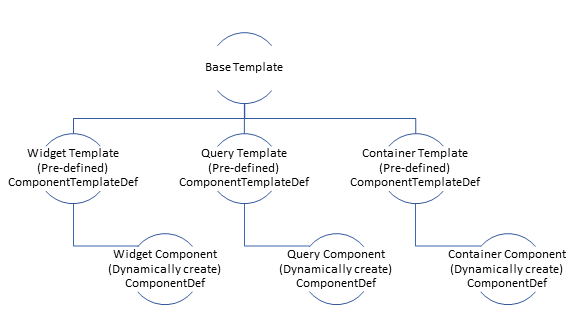
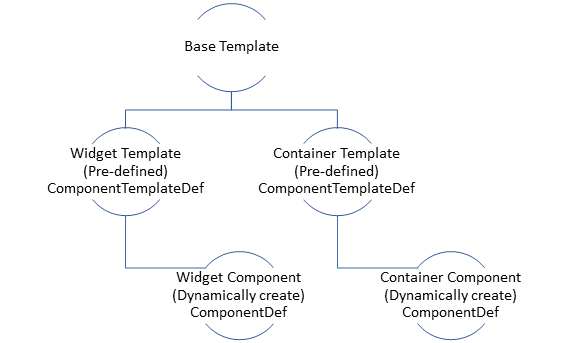
Update readme

diff --git a/README.md b/README.md
@@ -1,18 +1,15 @@
 
 # Web-Admin
 
-[![Build Status](https://travis-ci.com/ustocktrade/ust-ui.svg?token=e8EzsDsuxzkL1NY3sibq&branch=master)](https://travis-ci.com/ustocktrade/ust-ui)  [![Codacy Badge](https://api.codacy.com/project/badge/Grade/ea53fc7d0fc14d3bbb591876a5b8d5d2)](https://www.codacy.com?utm_source=github.com&amp;utm_medium=referral&amp;utm_content=ustocktrade/ust-ui&amp;utm_campaign=Badge_Grade)  [![Codacy Badge](https://api.codacy.com/project/badge/Coverage/ea53fc7d0fc14d3bbb591876a5b8d5d2)](https://www.codacy.com?utm_source=github.com&utm_medium=referral&utm_content=ustocktrade/ust-ui&utm_campaign=Badge_Coverage)
-
 This project was generated with [Angular CLI](https://github.com/angular/angular-cli) version 1.3.1.
 
-![alt text](https://github.com/ustocktrade/ust-ui/blob/master/imgs/diagram.png)
+![alt text](https://github.com/palinda/web-admin/blob/master/imgs/diagram.png)
 
--	Widget Components and Query Components can attach to Container Components
+-	Widget Components can attach to Container Components
 -	Container Component has 2 types 
-	Widget Container – Only Widget Components can attach
-	Query Container – Only Query Components can attach
--	Widget Templates, Query Templates and Container Templates predefined by the developer using unit components
--	Widget, Query and Container Component create dynamically. Saved in Widget Repository
+	Widget Container – Widget Components can attach
+-	Widget Templates and Container Templates predefined by the developer using unit components
+-	Widget and Container Component create dynamically. Saved in Widget Repository
 -	Widget Repository is in server side. This can implement as a JSON file and load using service worker to the client side. 
 -	 Widget Repository maintain globally
 -	Profile maintain per user for what user can customize
